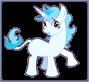
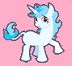
Final without game descrip

diff --git a/digital2/js/main.js b/digital2/js/main.js
@@ -17,15 +17,21 @@ var hearts;
 var fireRate=20;
 var nextFire=0;
 var bullets;
-
+var cursors;
+var score=0;
+var mark;
+var loveCounter=0;
+var loveText;
+    
 function create() {
+    
+    game.stage.backgroundColor = '#ff80df';
     
     game.physics.startSystem(Phaser.Physics.ARCADE);
     platforms = game.add.group();
     platforms.enableBody = true;
     var ground = platforms.create(0, game.world.height - 64, 'ground');
     ground.body.immovable = true;
-
 
     player = game.add.sprite(32, game.world.height - 150, 'pony');
     game.physics.arcade.enable(player);
@@ -45,6 +51,10 @@ function create() {
         var heart = hearts.create(Math.random() * 800, Math.random(), 'love');
         heart.body.gravity.y = Math.random() * 50;
     }
+    
+    loveText = game.add.text(0, 16, 'Love <3: 0', { fontSize: '32px', fill: '#000' });
+    mark = game.add.text(200, 16, '', { fill: '#ffa31a' });
+    cursors = game.input.keyboard.createCursorKeys();
 }
 
 function update() {
@@ -55,8 +65,23 @@ function update() {
     game.physics.arcade.overlap(bullets, hearts, hitLove, null, this);
 
     if(game.input.activePointer.leftButton.isDown){
+        if(game.input.mousePointer.x >= player.x && game.input.mousePointer.x <= (player.x+70) &&
+           game.input.mousePointer.y >= player.y && game.input.mousePointer.y <= (player.y+70)){
+            lovemark();
+        }
         fire();
     }
+    if (cursors.left.isDown)
+    {
+        player.body.velocity.x = -150;
+
+        
+    }
+    else if (cursors.right.isDown)
+    {
+        player.body.velocity.x = 150;  
+    }
+
 
 }
 
@@ -86,5 +111,11 @@ function hitLove(projectile,target){
         var heart=hearts.create(Math.random() * 800, Math.random(), 'love');
         heart.body.gravity.y=40;
     }
+    score+=1;
+    loveText.text= 'Love <3: '+score;
+}
+function lovemark(){
+    loveCounter++;
+    mark.text= "I see you! You have clicked on me " +loveCounter+" times! <3<3";
 }
 }
